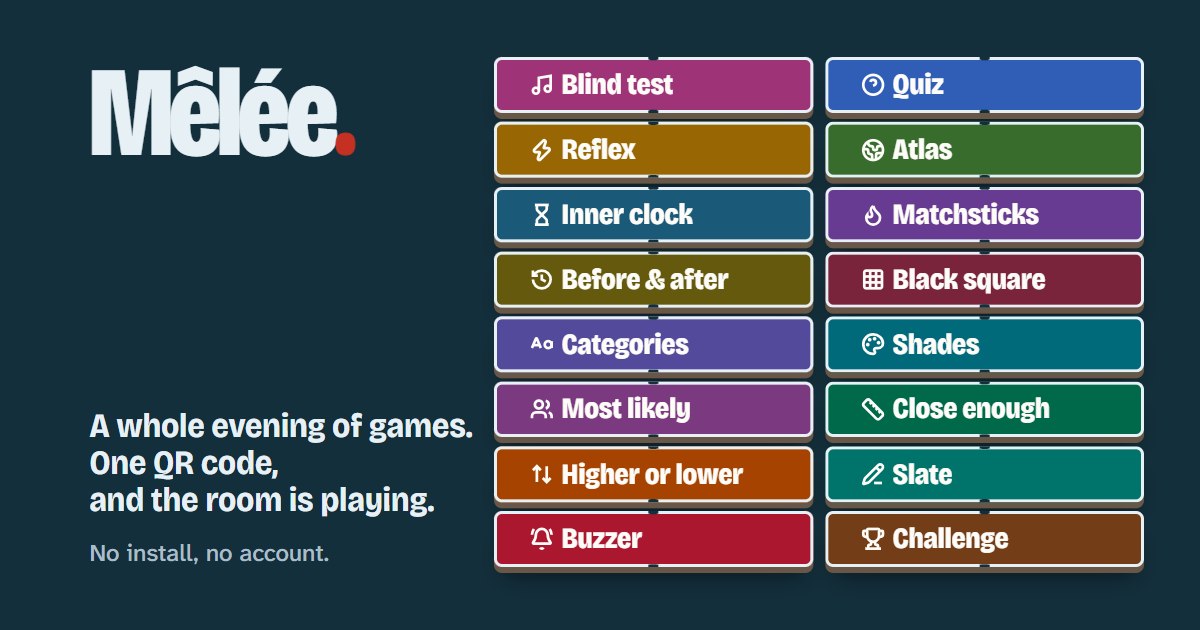
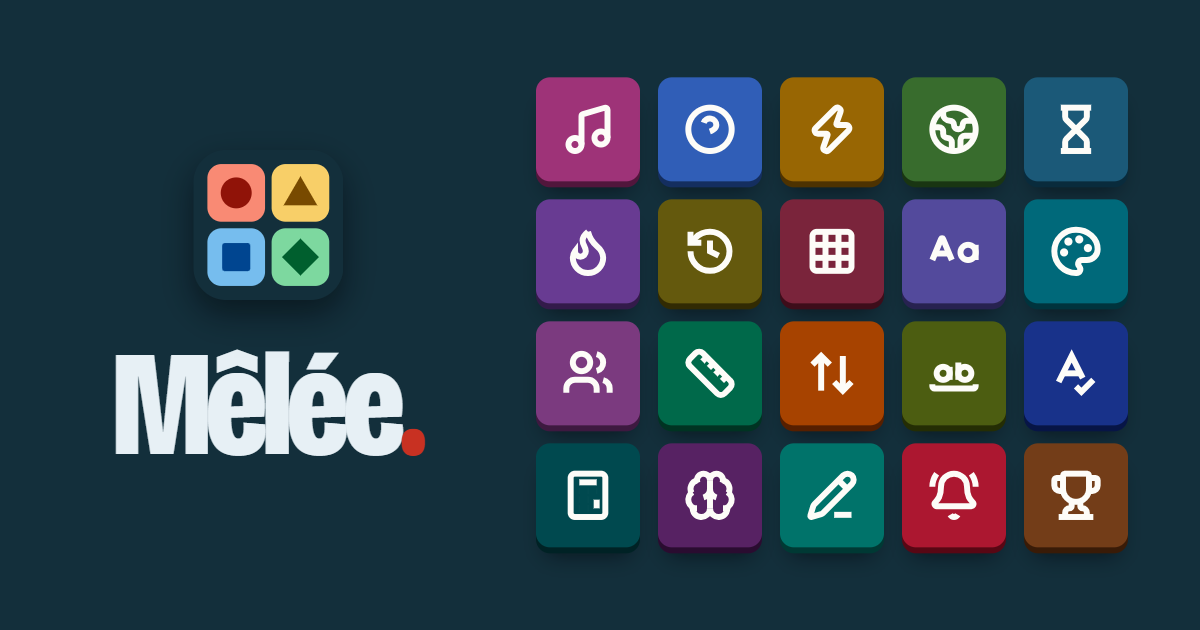
Draw one wordless share image with every game
The link preview already prints the page's title and description in its own
language, so the image carries none: the mark over the wordmark beside a
tile for each of the twenty games, in its spine colour with its glyph. One
og.png replaces the three per-language copies, which had also missed the
four newest games.

diff --git a/apps/game/src/presentation/head/document-head.ts b/apps/game/src/presentation/head/document-head.ts
@@ -403,20 +403,16 @@ export const PAGE_HEADS: Record<Locale, Record<IndexedPage, PageHead>> = {
 }
 
 /**
- * The share image is drawn once per language, from the front door in that
- * language: its game names are the dictionary's, and an English shelf under a
- * French description reads as two products.
+ * One share image serves every language: it carries the mark and each game's
+ * glyph and no words, because the link preview already prints the page's
+ * title and description beside it in the page's language.
  */
-export const SHARE_IMAGE_PATHS: Record<Locale, string> = {
-  en: '/og.png',
-  fr: '/og-fr.png',
-  pt: '/og-pt.png'
-}
+export const SHARE_IMAGE_PATH = '/og.png'
 
 export const IMAGE_ALTS: Record<Locale, string> = {
-  en: 'The Mêlée wordmark beside the shelf of every game it plays, each in its own colour.',
-  fr: 'Le nom Mêlée à côté de l’étagère de tous ses jeux, chacun dans sa couleur.',
-  pt: 'O nome Mêlée ao lado da prateleira de todos os seus jogos, cada um na sua cor.'
+  en: 'The Mêlée logo beside the icon of every game it plays, each in its own colour.',
+  fr: 'Le logo Mêlée à côté de l’icône de chacun de ses jeux, chacun dans sa couleur.',
+  pt: 'O logótipo Mêlée ao lado do ícone de cada um dos seus jogos, cada um na sua cor.'
 }
 
 /**

diff --git a/apps/game/src/presentation/head/share-image.test.ts b/apps/game/src/presentation/head/share-image.test.ts
@@ -3,18 +3,15 @@ import { crc32 } from 'node:zlib'
 
 import { describe, expect, it } from 'vitest'
 
-import { SHARE_IMAGE_PATHS } from '@/presentation/head/document-head'
+import { SHARE_IMAGE_PATH } from '@/presentation/head/document-head'
 
 const INDEX_HTML = readFileSync(
   new URL('../../../index.html', import.meta.url),
   'utf8'
 )
 
-const SHARE_IMAGES = Object.entries(SHARE_IMAGE_PATHS).map(
-  ([locale, path]) => ({
-    image: readFileSync(new URL(`../../../public${path}`, import.meta.url)),
-    locale
-  })
+const image = readFileSync(
+  new URL(`../../../public${SHARE_IMAGE_PATH}`, import.meta.url)
 )
 
 const PNG_SIGNATURE = Buffer.from([
@@ -52,7 +49,7 @@ const readMetaNumber = (property: string): number => {
   return Number(match?.[1])
 }
 
-describe.each(SHARE_IMAGES)('$locale share image', ({ image }) => {
+describe('share image', () => {
   it('[share-image] opens with the PNG signature, its line-ending bytes intact', () => {
     expect(image.subarray(0, PNG_SIGNATURE.length)).toEqual(PNG_SIGNATURE)
   })

diff --git a/apps/game/scripts/prerender.ts b/apps/game/scripts/prerender.ts
@@ -26,7 +26,7 @@ type EntryServer = {
   openGraphLocales: Record<Locale, string>
   prerenderedPages: PrerenderedPage[]
   renderPage: (page: PrerenderedPage) => Promise<RenderedPage>
-  shareImagePaths: Record<Locale, string>
+  shareImagePath: string
   headScripts: readonly string[]
   landingSequenceScript: (entry: string) => string
 }
@@ -57,7 +57,7 @@ const {
   renderPage,
   headScripts,
   landingSequenceScript,
-  shareImagePaths
+  shareImagePath
 }: EntryServer = await import(pathToFileURL(SERVER_ENTRY).href)
 
 /**
@@ -126,7 +126,7 @@ const documentFor = async (page: PrerenderedPage): Promise<string> => {
       'name="description"': description,
       'property="og:description"': description,
       'property="og:image:alt"': imageAlts[page.locale],
-      'property="og:image"': `${origin}${shareImagePaths[page.locale]}`,
+      'property="og:image"': `${origin}${shareImagePath}`,
       'property="og:title"': title,
       'property="og:url"': url
     }

diff --git a/apps/game/src/entry-server.tsx b/apps/game/src/entry-server.tsx
@@ -27,7 +27,7 @@ import {
   OPEN_GRAPH_LOCALES,
   PAGE_HEADS,
   type PageHead,
-  SHARE_IMAGE_PATHS
+  SHARE_IMAGE_PATH
 } from '@/presentation/head/document-head'
 import { i18n } from '@/presentation/i18n/i18n'
 import { ROUTE_FALLBACK_CLASS } from '@/presentation/route-fallback'
@@ -54,7 +54,7 @@ export type RenderedPage = Pick<PageHead, 'description'> & {
 export {
   IMAGE_ALTS as imageAlts,
   OPEN_GRAPH_LOCALES as openGraphLocales,
-  SHARE_IMAGE_PATHS as shareImagePaths
+  SHARE_IMAGE_PATH as shareImagePath
 }
 
 /** Inlined in each prerendered document's head, run before its first paint. */

diff --git a/apps/game/DESIGN.md b/apps/game/DESIGN.md
@@ -923,11 +923,14 @@ beside the word, or its control carries the name.
 order — `--tile-1..4` faces with their `--tile-mark-1..4` shapes — on a
 rounded square of the dark `--board`, in hex since a favicon reads no token.
 `public/apple-touch-icon.png` is the same mark inset at 75% on a full-bleed
-board at 180×180, since iOS rounds it itself. `og.png` (English, also the root's),
-`og-fr.png` and `og-pt.png` are drawn from the front door in that language, dark palette: the
-wordmark and a two-line promise on the left, every game's spine on the right in
-two columns, ticked, taglines dropped, names fitted to the widest. Redraw all
-three when a game joins the shelf.
+board at 180×180, since iOS rounds it itself. `og.png`, the share image, is
+one for every language and holds no words beyond the wordmark, since the link
+preview prints the page's title and description beside it: on the dark
+`--board`, the mark over the wordmark on the left, and on the right every
+game's glyph in the shelf's order on a tile of its `--spine` ground with a
+ledge of the spine at 62% over black — rounded squares, never the spine's
+lit edge, which reads as a button nobody can press. Twenty tiles are five
+columns of 104px with 18px between; redraw it when a game joins the shelf.
 
 ## Components
 

diff --git a/CHANGELOG.md b/CHANGELOG.md
@@ -255,6 +255,21 @@ one part.
 
 ### Improvements
 
+- `[Server]` **Estimate and higher or lower know Madrid.** The world's cities
+  now take in twenty-two Wikidata filed outside the classes the bank read —
+  Madrid, Seville, Valencia, Buenos Aires, Brussels, Los Angeles, Budapest,
+  Kyiv, Tehran, Riyadh, Kinshasa among them — and Lisbon is dealt to
+  every table rather than to a Portuguese one alone. Brussels is counted as
+  its region, the million a table means, and every row already banked keeps
+  its figure.
+
+- `[Game]` **A shared link shows every game.** The image a link to Mêlée
+  unfurls into is now the logo beside a tile for each of the twenty games, in
+  its colour with its icon — _Mystery word_, _Longest word_, _Make the number_
+  and _Great minds_ included. It carries no sentence and no game name, so one
+  image serves every language: the preview already prints the title and
+  description in the page's own.
+
 - `[Game]` **A name inside a sentence is set in the read face.** Somebody
   arriving, _playing as_, Petit Bac's stop, the duel, black square's fall, its
   keeper and team, the track's leader, the slate's blanks, a team to move to

diff --git a/handoffs/README.md b/handoffs/README.md
@@ -6,9 +6,7 @@ delete this README with the last one.
 | Series     | Wave | File                        | Depends on |
 | ---------- | ---- | --------------------------- | ---------- |
 | Games      | 3    | `games-03-five-clues.md`    | none       |
-| Quantities | 1    | `world-cities.md`           | none       |
 | Portuguese | 4    | `portuguese-09-portugal.md` | 08         |
-| Design     | 1    | `share-images.md`           | none       |
 
 Each game adds arms to the same protocol unions (game kinds, round
 content, answer modes), so they run one after another, never side by side.
